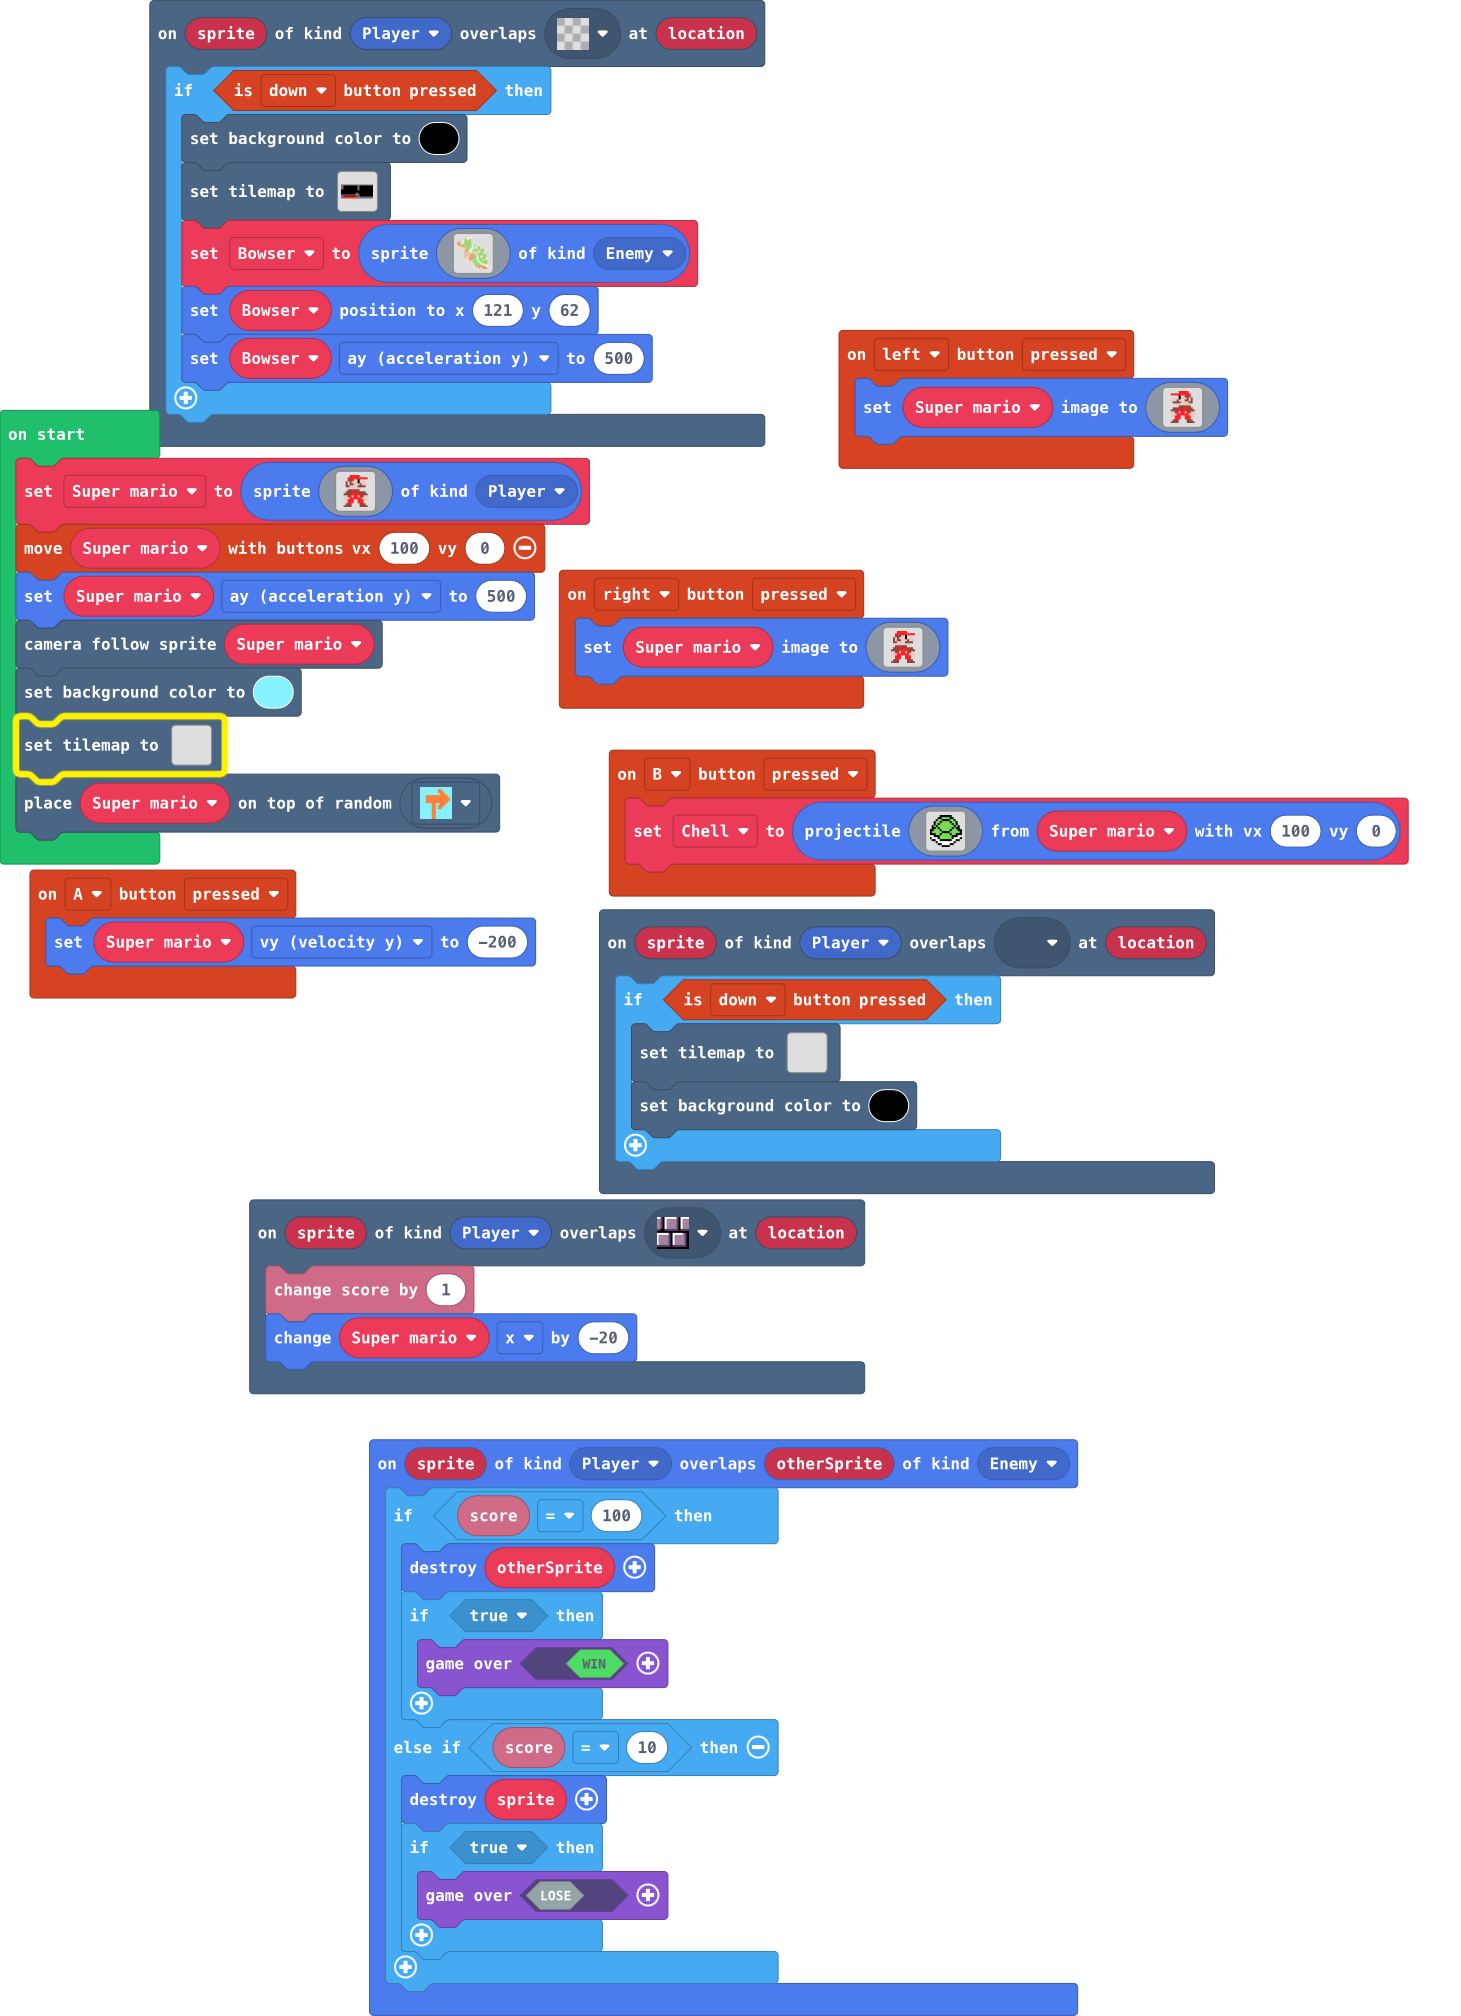
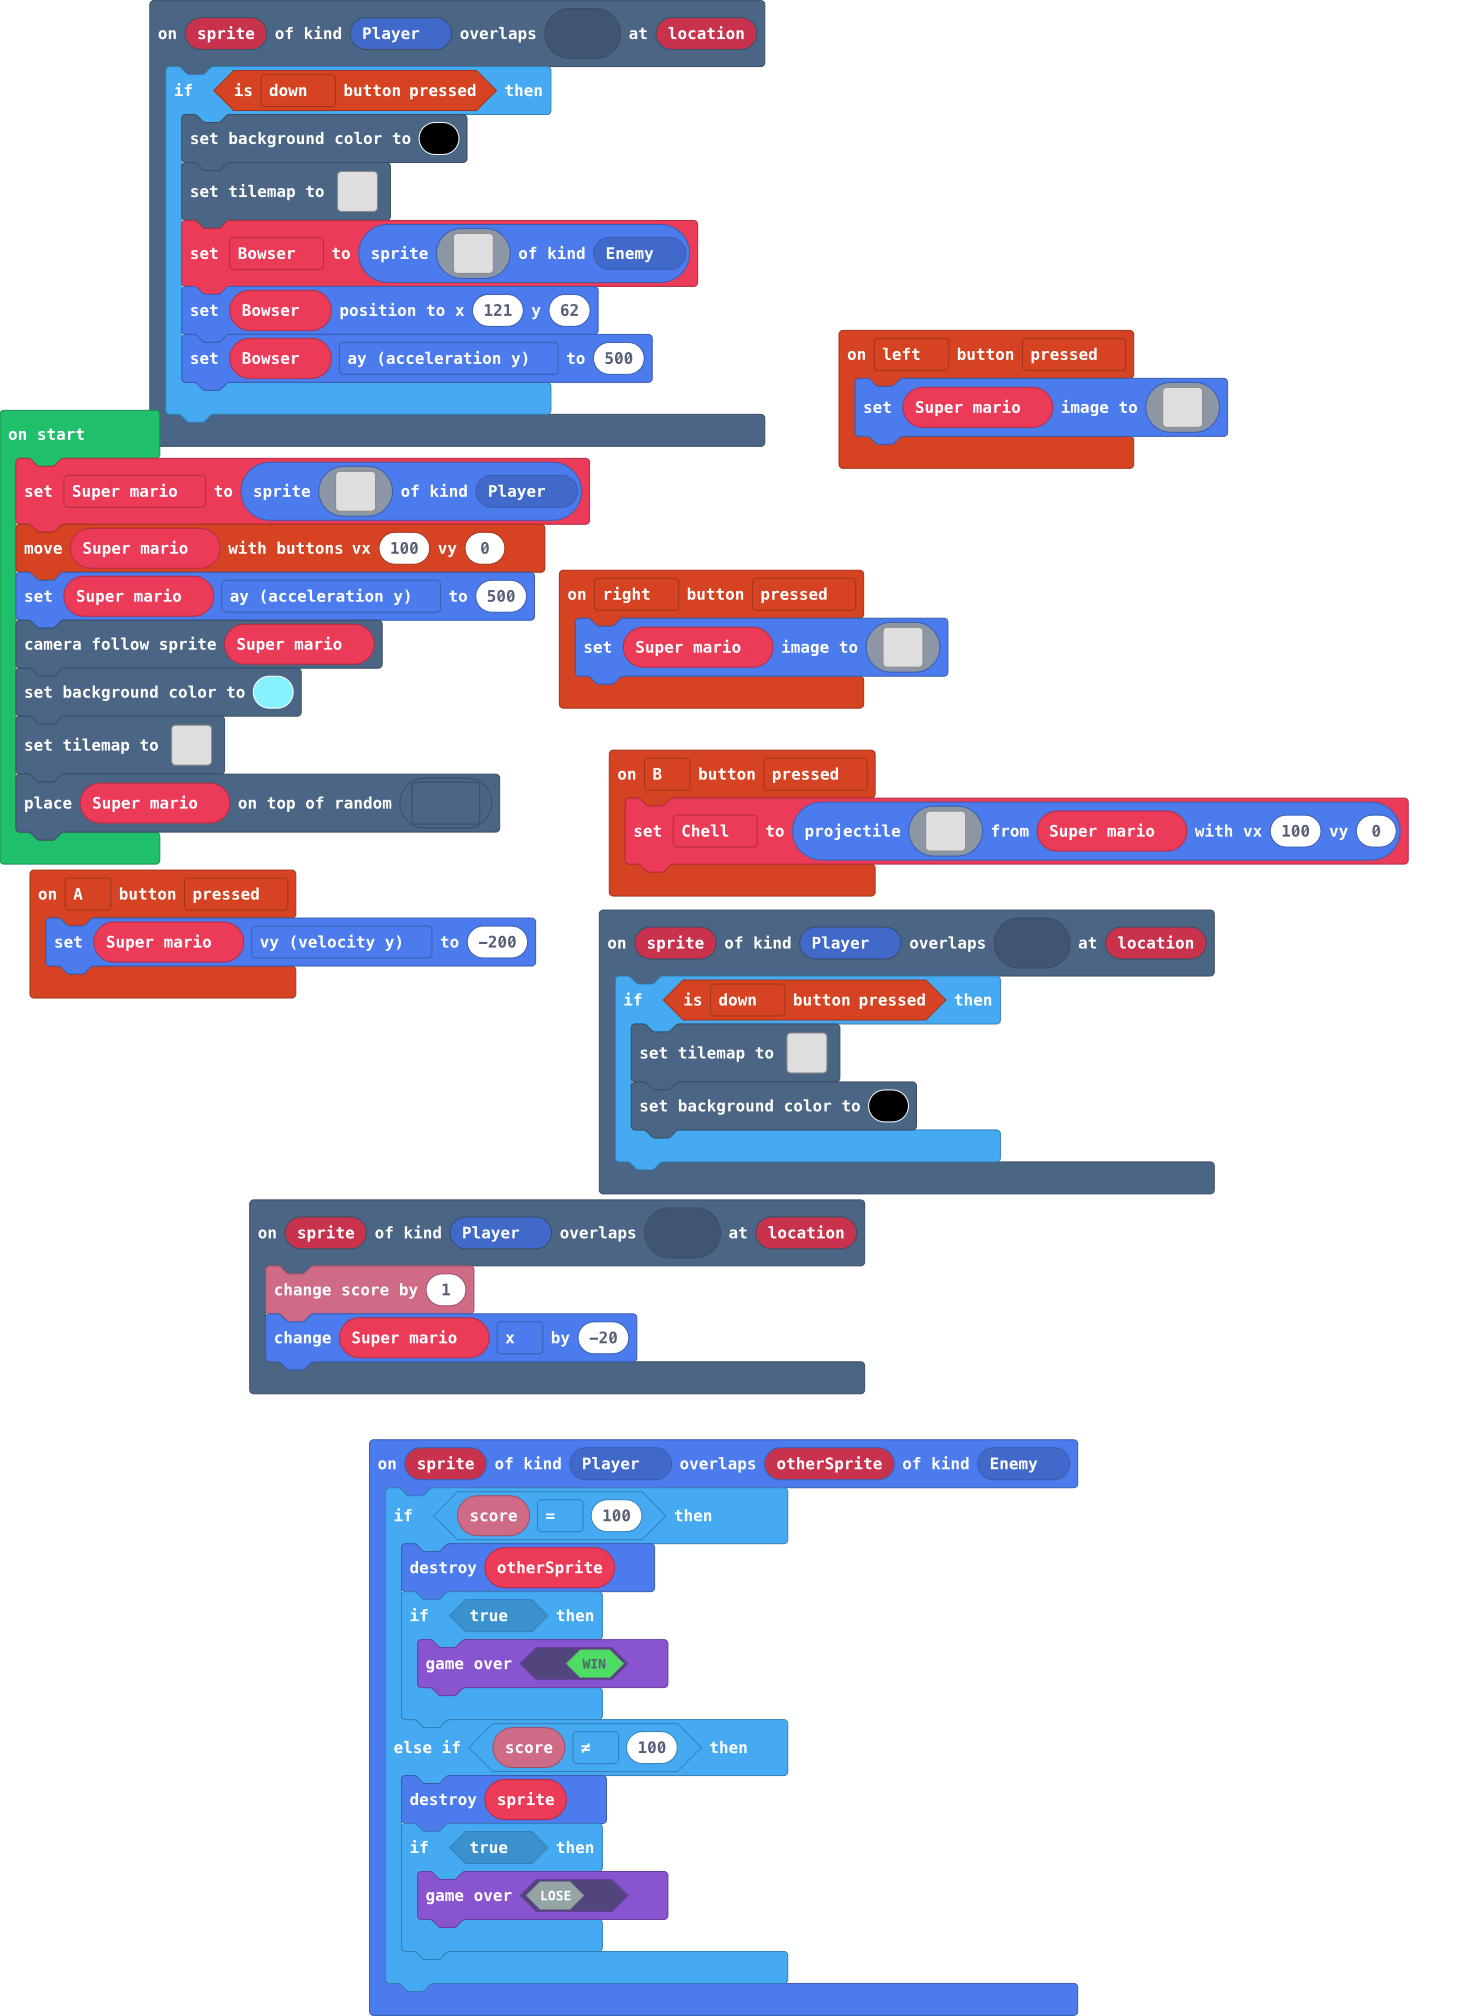
Update main.blocks, main.ts, images.g.jres, images.g.ts

diff --git a/images.g.ts b/images.g.ts
@@ -3,132 +3,6 @@ namespace myImages {
 
     helpers._registerFactory("image", function(name: string) {
         switch(helpers.stringTrim(name)) {
-            case "image19":
-            case "Temporary asset":return img`
-. . . 2 2 2 2 2 . . . . 
-. . 2 2 2 2 2 2 2 2 2 2 
-. . e e e d d f d . . . 
-. e d e d d d f d d d . 
-. e d e e d d d e d d d 
-. e e d d d d e e e e . 
-. . . d d d d d d d . . 
-. . . . e e e 2 e e . . 
-. e e e 2 e e 2 e e e . 
-e e e e 2 2 2 2 e e e e 
-d d e 2 d 2 2 d 2 e d d 
-d d d 2 2 2 2 2 2 d d d 
-d d 2 2 2 . . 2 2 2 d d 
-. . 2 2 2 . . 2 2 2 . . 
-. e e e . . . . e e e . 
-e e e e . . . . e e e e 
-`;
-            case "image1":return img`
-. . . . 2 2 2 2 2 . . . 
-2 2 2 2 2 2 2 2 2 2 . . 
-. . . d f d d e e e . . 
-. d d d f d d d e d e . 
-d d d e d d d e e d e . 
-. e e e e d d d d e e . 
-. . d d d d d d d . . . 
-. . . . e e e 2 e e . . 
-. e e e 2 e e 2 e e e . 
-e e e e 2 2 2 2 e e e e 
-d d e 2 d 2 2 d 2 e d d 
-d d d 2 2 2 2 2 2 d d d 
-d d 2 2 2 . . 2 2 2 d d 
-. . 2 2 2 . . 2 2 2 . . 
-. e e e . . . . e e e . 
-e e e e . . . . e e e e 
-`;
-            case "image2":return img`
-. . . 2 2 2 2 2 . . . . 
-. . 2 2 2 2 2 2 2 2 2 2 
-. . e e e d d f d . . . 
-. e d e d d d f d d d . 
-. e d e e d d d e d d d 
-. e e d d d d e e e e . 
-. . . d d d d d d d . . 
-. . e e 2 e e e . . . . 
-. e e e 2 e e 2 e e e . 
-e e e e 2 2 2 2 e e e e 
-d d e 2 d 2 2 d 2 e d d 
-d d d 2 2 2 2 2 2 d d d 
-d d 2 2 2 . . 2 2 2 d d 
-. . 2 2 2 . . 2 2 2 . . 
-. e e e . . . . e e e . 
-e e e e . . . . e e e e 
-`;
-            case "image3":return img`
-. . . 2 2 2 2 2 . . . . 
-. . 2 2 2 2 2 2 2 2 2 2 
-. . e e e d d f d . . . 
-. e d e d d d f d d d . 
-. e d e e d d d e d d d 
-. e e d d d d e e e e . 
-. . . d d d d d d d . . 
-. . e e 2 e e e . . . . 
-. e e e 2 e e 2 e e e . 
-e e e e 2 2 2 2 e e e e 
-d d e 2 d 2 2 d 2 e d d 
-d d d 2 2 2 2 2 2 d d d 
-d d 2 2 2 . . 2 2 2 d d 
-. . 2 2 2 . . 2 2 2 . . 
-. e e e . . . . e e e . 
-e e e e . . . . e e e e 
-`;
-            case "image4":return img`
-. . . . . f f f f f f . . . . . 
-. . . . f f 7 7 7 7 f f . . . . 
-. . . f 7 7 f f f f 7 7 f . . . 
-. . f 7 7 f 7 7 7 7 f 7 7 f . . 
-. . f 7 f 7 7 7 7 7 7 f 7 f . . 
-. f 7 f 7 7 7 7 7 7 7 7 f 7 f . 
-. f f 7 f 7 7 7 7 7 7 f 7 f f . 
-f f 7 7 7 f 7 7 7 7 f 7 7 7 f f 
-f 7 7 7 7 7 f f f f 7 7 7 7 7 f 
-f f f 7 7 f 7 7 7 7 f 7 7 f f f 
-1 1 f f f 7 7 7 7 7 7 f f f 1 1 
-f 1 1 1 f 7 7 7 7 7 7 f 1 1 1 f 
-. f f 1 1 f f f f f f 1 1 f f . 
-. . . f 1 1 1 1 1 1 1 1 f . . . 
-. . . . f f 1 1 1 1 f f . . . . 
-. . . . . . f f f f . . . . . . 
-`;
-            case "image5":return img`
-............111.................
-........771114..................
-.......7771144..................
-.....117777447..................
-.4..7117777777..................
-4.477117777777..................
-444111777477777.................
-444417774447777.................
-144477441747777117771...........
-.1.44447774777711771147.........
-.1.117177147777117111447111.....
-....1...7447771117714477114.....
-........144771117777777774471...
-........447711177777777777771...
-......14447711177777711177777...
-.......44..7711111177114777111..
-.............77444117744777114..
-.........444..4444411777777744..
-........441.4444444717777777771.
-........44..14444477177711177741
-........41.4444444771177114777..
-........4..14444777711777447711.
-.........1.444447777117777777111
-...........1444.777771777711744.
-................777771177747747.
-................777777117777777.
-.................77777711177777.
-..................7777771111777.
-..................47777777111111
-.................114477444441111
-.................11444444444441.
-....................1144114444..
-...................111411144444.
-`;
             case "image6":return img`
 . . . . 2 2 2 2 2 . . . 
 2 2 2 2 2 2 2 2 2 2 . . 
@@ -236,49 +110,15 @@ f 1 1 1 f 7 7 7 7 7 7 f 1 1 1 f
 ....................1144114444..
 ...................111411144444.
 `;
-            case "image11":return img`
-............111.................
-........771114..................
-.......7771144..................
-.....117777447..................
-.4..7117777777..................
-4.477117777777..................
-444111777477777.................
-444417774447777.................
-144477441747777117771...........
-.1.44447774777711771147.........
-.1.117177147777117111447111.....
-....1...7447771117714477114.....
-........144771117777777774471...
-........447711177777777777771...
-......14447711177777711177777...
-.......44..7711111177114777111..
-.............77444117744777114..
-.........444..4444411777777744..
-........441.4444444717777777771.
-........44..14444477177711177741
-........41.4444444771177114777..
-........4..14444777711777447711.
-.........1.444447777117777777111
-...........1444.777771777711744.
-................777771177747747.
-................777777117777777.
-.................77777711177777.
-..................7777771111777.
-..................47777777111111
-.................114477444441111
-.................11444444444441.
-....................1144114444..
-...................111411144444.
-`;
-            case "image12":return img`
-. . . . 2 2 2 2 2 . . . 
-2 2 2 2 2 2 2 2 2 2 . . 
-. . . d f d d e e e . . 
-. d d d f d d d e d e . 
-d d d e d d d e e d e . 
-. e e e e d d d d e e . 
-. . d d d d d d d . . . 
+            case "image19":
+            case "Temporary asset":return img`
+. . . 2 2 2 2 2 . . . . 
+. . 2 2 2 2 2 2 2 2 2 2 
+. . e e e d d f d . . . 
+. e d e d d d f d d d . 
+. e d e e d d d e d d d 
+. e e d d d d e e e e . 
+. . . d d d d d d d . . 
 . . . . e e e 2 e e . . 
 . e e e 2 e e 2 e e e . 
 e e e e 2 2 2 2 e e e e 
@@ -288,77 +128,6 @@ d d 2 2 2 . . 2 2 2 d d
 . . 2 2 2 . . 2 2 2 . . 
 . e e e . . . . e e e . 
 e e e e . . . . e e e e 
-`;
-            case "image13":return img`
-. . . 2 2 2 2 2 . . . . 
-. . 2 2 2 2 2 2 2 2 2 2 
-. . e e e d d f d . . . 
-. e d e d d d f d d d . 
-. e d e e d d d e d d d 
-. e e d d d d e e e e . 
-. . . d d d d d d d . . 
-. . e e 2 e e e . . . . 
-. e e e 2 e e 2 e e e . 
-e e e e 2 2 2 2 e e e e 
-d d e 2 d 2 2 d 2 e d d 
-d d d 2 2 2 2 2 2 d d d 
-d d 2 2 2 . . 2 2 2 d d 
-. . 2 2 2 . . 2 2 2 . . 
-. e e e . . . . e e e . 
-e e e e . . . . e e e e 
-`;
-            case "image14":return img`
-. . . . . f f f f f f . . . . . 
-. . . . f f 7 7 7 7 f f . . . . 
-. . . f 7 7 f f f f 7 7 f . . . 
-. . f 7 7 f 7 7 7 7 f 7 7 f . . 
-. . f 7 f 7 7 7 7 7 7 f 7 f . . 
-. f 7 f 7 7 7 7 7 7 7 7 f 7 f . 
-. f f 7 f 7 7 7 7 7 7 f 7 f f . 
-f f 7 7 7 f 7 7 7 7 f 7 7 7 f f 
-f 7 7 7 7 7 f f f f 7 7 7 7 7 f 
-f f f 7 7 f 7 7 7 7 f 7 7 f f f 
-1 1 f f f 7 7 7 7 7 7 f f f 1 1 
-f 1 1 1 f 7 7 7 7 7 7 f 1 1 1 f 
-. f f 1 1 f f f f f f 1 1 f f . 
-. . . f 1 1 1 1 1 1 1 1 f . . . 
-. . . . f f 1 1 1 1 f f . . . . 
-. . . . . . f f f f . . . . . . 
-`;
-            case "image15":return img`
-............111.................
-........771114..................
-.......7771144..................
-.....117777447..................
-.4..7117777777..................
-4.477117777777..................
-444111777477777.................
-444417774447777.................
-144477441747777117771...........
-.1.44447774777711771147.........
-.1.117177147777117111447111.....
-....1...7447771117714477114.....
-........144771117777777774471...
-........447711177777777777771...
-......14447711177777711177777...
-.......44..7711111177114777111..
-.............77444117744777114..
-.........444..4444411777777744..
-........441.4444444717777777771.
-........44..14444477177711177741
-........41.4444444771177114777..
-........4..14444777711777447711.
-.........1.444447777117777777111
-...........1444.777771777711744.
-................777771177747747.
-................777777117777777.
-.................77777711177777.
-..................7777771111777.
-..................47777777111111
-.................114477444441111
-.................11444444444441.
-....................1144114444..
-...................111411144444.
 `;
         }
         return null;

diff --git a/main.ts b/main.ts
@@ -120,7 +120,7 @@ sprites.onOverlap(SpriteKind.Player, SpriteKind.Enemy, function (sprite, otherSp
         if (true) {
             game.over(true)
         }
-    } else if (info.score() == 10) {
+    } else if (info.score() != 100) {
         sprite.destroy()
         if (true) {
             game.over(false)
